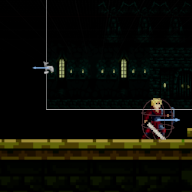
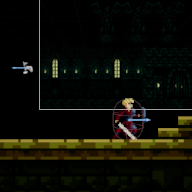
DialogueSelectionMenu stuff

diff --git a/Source/TG/NPCs/MasterNPC.cpp b/Source/TG/NPCs/MasterNPC.cpp
@@ -35,14 +35,6 @@ AMasterNPC::AMasterNPC()
 	//sets our character sprite default scale
 	GetSprite()->SetRelativeScale3D(TG_SPRITE_SCALE);
 
-	dialogueTextComp = CreateDefaultSubobject<UWidgetComponent>(TEXT("dialogueTextComp"));
-	dialogueTextComp->SetupAttachment(RootComponent);
-	dialogueTextComp->SetRelativeLocation(FVector(0, 0, 250));
-	dialogueTextComp->SetVisibility(true);
-	dialogueTextComp->SetCollisionProfileName(TEXT("NoCollision"));
-	dialogueTextComp->SetGenerateOverlapEvents(false);
-	dialogueTextComp->SetWidgetSpace(EWidgetSpace::Screen);
-
 	dialogueSelectionComp = CreateDefaultSubobject<UWidgetComponent>(TEXT("dialogueSelectionComp"));
 	dialogueSelectionComp->SetupAttachment(RootComponent);
 	dialogueSelectionComp->SetRelativeLocation(FVector(0, 0, 150));
@@ -93,7 +85,8 @@ void AMasterNPC::OnEnterPlayerRadius(AActor* iPlayer)
 void AMasterNPC::OnLeavePlayerRadius(AActor* iPlayer)
 {
 	dialogueAlert->SetVisibility(false); //this cliches right now a bit when disappearing it, needs animation in future
-	refDialogueTextWidget->SetVisibility(ESlateVisibility::Hidden);
+
+	SetDialogueSelectInvisible();
 
 }
 
@@ -102,6 +95,7 @@ void AMasterNPC::Interact(AActor* iPlayer)
 	RotateTowardsPlayer(iPlayer);
 	dialogueAlert->SetVisibility(false);
 	CreateDialogueSelection();
+	SetDialogueSelectVisible();
 // 	FTimerHandle interactTimer;
 // 	GetWorld()->GetTimerManager().SetTimer(interactTimer, this, &AMasterNPC::CreateDialogueSelection, 0.5f, false);
 
@@ -184,8 +178,6 @@ void AMasterNPC::InitializeDataTableInfo()
 
 void AMasterNPC::InitializeReferences()
 {
-	refDialogueTextWidget = CastChecked<UDialogueWidget>(dialogueTextComp->GetUserWidgetObject());
-	refDialogueTextWidget->SetVisibility(ESlateVisibility::Hidden);
 
 	refDialogueSelectionMenu = CastChecked<UDialogueSelectionMenu>(dialogueSelectionComp->GetUserWidgetObject());
 	refDialogueSelectionMenu->refOwnerNPC = this; 
@@ -200,7 +192,7 @@ void AMasterNPC::ShowNextDialogueMessage()
 {
 
 
-	if (refDialogueTextWidget == nullptr || refDialogueTextWidget->refDialogueTextBlock == nullptr)
+	if (refDialogueSelectionMenu == nullptr || refDialogueSelectionMenu->refDialogueTextWidget == nullptr)
 	{
 		return;
 	}
@@ -282,9 +274,20 @@ void AMasterNPC::ShowNextDialogueMessage()
 
 }
 
+void AMasterNPC::SetDialogueSelectInvisible()
+{
+	refDialogueSelectionMenu->SetVisibility(ESlateVisibility::Hidden);
+}
+
+void AMasterNPC::SetDialogueSelectVisible()
+{
+	refDialogueSelectionMenu->SetVisibility(ESlateVisibility::Visible);
+}
+
+
 void AMasterNPC::GreetingsLoopMessage()
 {
-	refDialogueTextWidget->refDialogueTextBlock->SetText(currentNPCDialogues.dialogueMessages[simpleDialogueCounter]);
+	refDialogueSelectionMenu->refDialogueTextWidget->refDialogueTextBlock->SetText(currentNPCDialogues.dialogueMessages[simpleDialogueCounter]);
 	if ((currentNPCDialogues.dialogueMessages.Num()) == simpleDialogueCounter)
 	{
 		simpleDialogueCounter = 0;
@@ -302,14 +305,14 @@ void AMasterNPC::GreetingsNonLoopMessage()
 	}
 
 	//not exhausted
-	refDialogueTextWidget->refDialogueTextBlock->SetText(currentNPCDialogues.dialogueMessages[simpleDialogueCounter]);
+	refDialogueSelectionMenu->refDialogueTextWidget->refDialogueTextBlock->SetText(currentNPCDialogues.dialogueMessages[simpleDialogueCounter]);
 	simpleDialogueCounter++;
 }
 
 void AMasterNPC::ExhaustedDialogue()
 {
 	int32 l_randDialogue = FMath::RandRange(0, currentNPCDialogues.dialogueMessagesRumor.Num() - 1);
-	refDialogueTextWidget->refDialogueTextBlock->SetText(
+	refDialogueSelectionMenu->refDialogueTextWidget->refDialogueTextBlock->SetText(
 		currentNPCDialogues.dialogueMessagesRumor[l_randDialogue]);
 }
 
@@ -323,7 +326,7 @@ void AMasterNPC::Event1Dialogue()
 		return;
 	}
 	UE_LOG(LogTemp, Warning, TEXT("inside Event1 %i"), currentNPCDialogues.dialogueMessagesHasDoneEvent1.Num());
-	refDialogueTextWidget->refDialogueTextBlock->SetText(
+	refDialogueSelectionMenu->refDialogueTextWidget->refDialogueTextBlock->SetText(
 		currentNPCDialogues.dialogueMessagesHasDoneEvent1[simpleDialogueCounterEvent1]);
 	simpleDialogueCounterEvent1++;
 }
@@ -337,7 +340,7 @@ void AMasterNPC::Event2Dialogue()
 		return;
 	}
 	UE_LOG(LogTemp, Warning, TEXT("inside Event2 %i"), currentNPCDialogues.dialogueMessagesHasDoneEvent2.Num());
-	refDialogueTextWidget->refDialogueTextBlock->SetText(
+	refDialogueSelectionMenu->refDialogueTextWidget->refDialogueTextBlock->SetText(
 		currentNPCDialogues.dialogueMessagesHasDoneEvent2[simpleDialogueCounterEvent2]);
 	simpleDialogueCounterEvent2++;
 }
@@ -351,7 +354,7 @@ void AMasterNPC::Event3Dialogue()
 		return;
 	}
 	UE_LOG(LogTemp, Warning, TEXT("inside Event3 %i"), currentNPCDialogues.dialogueMessagesHasDoneEvent3.Num());
-	refDialogueTextWidget->refDialogueTextBlock->SetText(
+	refDialogueSelectionMenu->refDialogueTextWidget->refDialogueTextBlock->SetText(
 		currentNPCDialogues.dialogueMessagesHasDoneEvent3[simpleDialogueCounterEvent3]);
 	simpleDialogueCounterEvent3++;
 }
@@ -365,7 +368,7 @@ void AMasterNPC::Event4Dialogue()
 		return;
 	}
 	UE_LOG(LogTemp, Warning, TEXT("inside Event4 %i"), currentNPCDialogues.dialogueMessagesHasDoneEvent4.Num());
-	refDialogueTextWidget->refDialogueTextBlock->SetText(
+	refDialogueSelectionMenu->refDialogueTextWidget->refDialogueTextBlock->SetText(
 		currentNPCDialogues.dialogueMessagesHasDoneEvent4[simpleDialogueCounterEvent4]);
 	simpleDialogueCounterEvent4++;
 }
@@ -373,7 +376,7 @@ void AMasterNPC::Event4Dialogue()
 void AMasterNPC::AllEventsFinishedDialogue()
 {
 	int32 l_randDialogue = FMath::RandRange(0, currentNPCDialogues.dialogueMessagesPlayerHasDoneAllTasks.Num() - 1);
-	refDialogueTextWidget->refDialogueTextBlock->SetText(
+	refDialogueSelectionMenu->refDialogueTextWidget->refDialogueTextBlock->SetText(
 		currentNPCDialogues.dialogueMessagesPlayerHasDoneAllTasks[l_randDialogue]);
 }
 

diff --git a/Source/TG/UI/Dialogue/DialogueSelectButton.cpp b/Source/TG/UI/Dialogue/DialogueSelectButton.cpp
@@ -4,6 +4,7 @@
 #include "DialogueSelectButton.h"
 #include "Components/Button.h"
 #include "Components/TextBlock.h"
+#include "TG/UI/Dialogue/DialogueSelectionMenu.h"
 #include "TG/UI/Dialogue/DialogueWidget.h"
 #include "TG/NPCs/MasterNPC.h"
 
@@ -18,8 +19,10 @@ void UDialogueSelectButton::ButtonPressedTalk()
 	if (refOwnerNPC == nullptr)	{ return; }
 	ClearPreviousDialogueWidgets();
 
-	 	refOwnerNPC->refDialogueTextWidget->SetVisibility(ESlateVisibility::Visible);
+	 	refOwnerNPC->refDialogueSelectionMenu->refDialogueTextWidget->SetVisibility(ESlateVisibility::Visible);
 	 	refOwnerNPC->ShowNextDialogueMessage();	
+		GetWorld()->GetTimerManager().SetTimer(
+			hideDialogueTextWindowTimer, this, &UDialogueSelectButton::HideDialogueText, 5.0f, false);
 }
 
 void UDialogueSelectButton::ButtonPressedAsk()
@@ -61,6 +64,12 @@ void UDialogueSelectButton::ButtonPressedDuelPractice()
 void UDialogueSelectButton::ClearPreviousDialogueWidgets()
 {
 	//TODO: here clear other button's tabs !!
+}
+
+void UDialogueSelectButton::HideDialogueText()
+{
+	//this would need an animation in future
+	refOwnerNPC->refDialogueSelectionMenu->refDialogueTextWidget->SetVisibility(ESlateVisibility::Hidden);
 }
 
 void UDialogueSelectButton::SetButtonText(EDialogueSelectButtons iBtn)

diff --git a/Source/TG/NPCs/MasterNPC.h b/Source/TG/NPCs/MasterNPC.h
@@ -105,9 +105,6 @@ protected:
 	class UPaperFlipbookComponent* dialogueAlert;
 
 	UPROPERTY(VisibleDefaultsOnly)
-		class UWidgetComponent* dialogueTextComp;	//dont forget to set the widget in the blueprint
-
-	UPROPERTY(VisibleDefaultsOnly)
 		class UWidgetComponent* dialogueSelectionComp;	//dont forget to set the widget in the blueprint
 
 public:
@@ -169,8 +166,6 @@ protected:
 
 public:
 	UPROPERTY()
-	class UDialogueWidget* refDialogueTextWidget;
-	UPROPERTY()
 	class UDialogueSelectionMenu* refDialogueSelectionMenu;
 	/* #########################END############################## */
 
@@ -196,6 +191,9 @@ protected:
 	void InitDialogueMessageHack();
 
 	void ShowNextDialogueMessage();
+
+	void SetDialogueSelectInvisible();
+	void SetDialogueSelectVisible();
 
 	int32 simpleDialogueCounter;
 	int32 simpleDialogueCounterEvent1;

diff --git a/Source/TG/UI/Dialogue/DialogueSelectionMenu.cpp b/Source/TG/UI/Dialogue/DialogueSelectionMenu.cpp
@@ -4,6 +4,7 @@
 #include "DialogueSelectionMenu.h"
 #include "Components/HorizontalBox.h"
 #include "DialogueSelectButton.h"
+#include "TG/UI/Dialogue/DialogueWidget.h"
 #include "TG/NPCs/MasterNPC.h"
 
 
@@ -13,6 +14,7 @@ void UDialogueSelectionMenu::NativeConstruct()
 	Super::NativeConstruct();
 	InitializeRefsInBP();
 	InitializeReferences();
+	refDialogueTextWidget->SetVisibility(ESlateVisibility::Hidden);
 
 }
 
@@ -65,8 +67,6 @@ void UDialogueSelectionMenu::CreateDialogueButtons(const TArray<EDialogueSelectB
 		bHaveTheButtonsAlreadyBeenCreated = true;
 		
 	}
-	
-	
 	
 }
 

diff --git a/Source/TG/UI/Dialogue/DialogueSelectionMenu.h b/Source/TG/UI/Dialogue/DialogueSelectionMenu.h
@@ -25,6 +25,8 @@ public:
 
 	UPROPERTY(EditAnywhere, BlueprintReadWrite)
 		class UHorizontalBox* refDialogueMenuHorizontalBox;
+	UPROPERTY(EditAnywhere, BlueprintReadWrite)
+		class UDialogueWidget* refDialogueTextWidget;
 
 	class AMasterNPC* refOwnerNPC; // gets initialized by masternpc when this instance is created
 

diff --git a/Source/TG/UI/Dialogue/DialogueSelectButton.h b/Source/TG/UI/Dialogue/DialogueSelectButton.h
@@ -47,7 +47,8 @@ protected:
 	void ButtonPressedDuelPractice();
 	
 	void ClearPreviousDialogueWidgets();
+	void HideDialogueText();
 
-
+	FTimerHandle hideDialogueTextWindowTimer;
 	
 };
